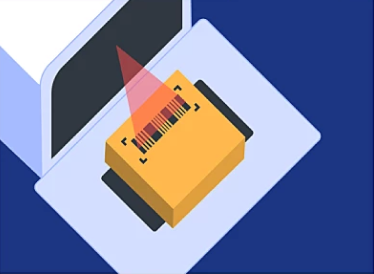
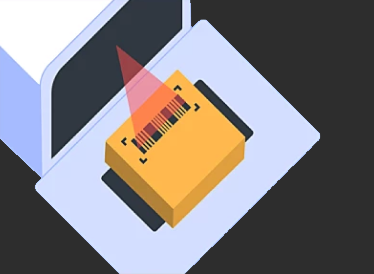
meh

diff --git a/users/employees/cashier_styles/css/cashier_dashboard.css b/users/employees/cashier_styles/css/cashier_dashboard.css
@@ -1,15 +1,12 @@
-.dashboard-container {
-    display: flex;
-    justify-content: center;
-    align-items: center;
-    height: 100vh;
+.cright {
+    padding-left: 10px;
+    margin-top: 3px;
 }
-
-.container {
-    text-align: center;
+.cright img {
+    vertical-align: middle; 
+    margin-right: 10px; 
 }
-
-
-
-
-/* Additional styling as needed */
+.cright a {
+    text-decoration: none; 
+    color: #007bff;
+  }

diff --git a/users/employees/cashier_styles/css/cashier_card.css b/users/employees/cashier_styles/css/cashier_card.css
@@ -1,8 +1,11 @@
     body, html {
       height: 100%;
+      background-color: black;
     }
 
     .card {
       height: 100vh;
+      background-color: black;
     }
+
 

diff --git a/users/employees/employee_page.php b/users/employees/employee_page.php
@@ -1,28 +1,29 @@
 <header>
     <?php include '../employees/includes/cashier_links.php' ?>
+
 </header>
 
 <body>
     <nav class="navbar navbar-expand-sm bg-dark navbar-dark">
-        <div class="container-fluid">
-            <a class="navbar-brand" href="#">AetherIO</a>
-        </div>
+    <div class="container-fluid">
+        <span class="navbar-text">AetherIO</span>
+    </div>
     </nav>
-
     <div class="container-fluid pt-3">
         <div class="row">
             <div class="col-lg-12">
                 <div class="card">
                     <div class="row">
                         <div class="col-lg-8">
-                            basic
+                            sample
                         </div>
                         <div class="col-lg-4">
-                            <img src="cashier_styles/pictures/print.png" class="img-fluid" alt="meh">
-                            <i class="bi bi-heart"></i>
-                            <i class="bi bi-heart text-danger fs-4 mr-2"></i>
-
-
+                            <img src="cashier_styles/pictures/print.png" class="img-fluid" alt="meh" style="width:450px">
+                            <div class="cright" >
+                                <img src="cashier_styles/pictures/search-heart.svg" width="40px" height="40px">Search<a href="Package.php"></a><br>
+                                <img src="cashier_styles/pictures/upc-scan.svg" width="40px" height="40px">Barcode<a href="Package.php"></a><br>
+                                <img src="cashier_styles/pictures/box2-heart-fill.svg" width="40px" height="40px">Package<a href="Package.php"></a><br>
+                            </div>
                         </div>
                     </div>
                 </div>

diff --git a/users/employees/includes/cashier_links.php b/users/employees/includes/cashier_links.php
@@ -1,4 +1,3 @@
-<link href="../cashier_styles/css/cashier_card.css" rel="stylesheet">
 <link href="../cashier_styles/css/cashier_dashboard.css" rel="stylesheet">
 <link href="https://cdn.jsdelivr.net/npm/bootstrap@5.3.0/dist/css/bootstrap.min.css" rel="stylesheet">
 <link href="https://cdn.jsdelivr.net/npm/bootstrap-icons@1.7.2/bootstrap-icons.min.css" rel="stylesheet">
